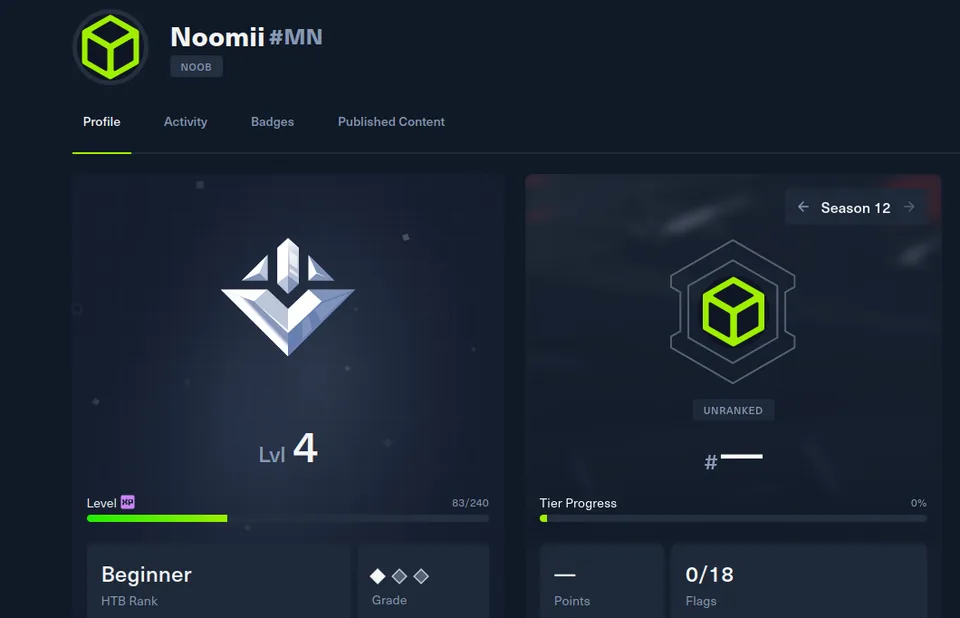
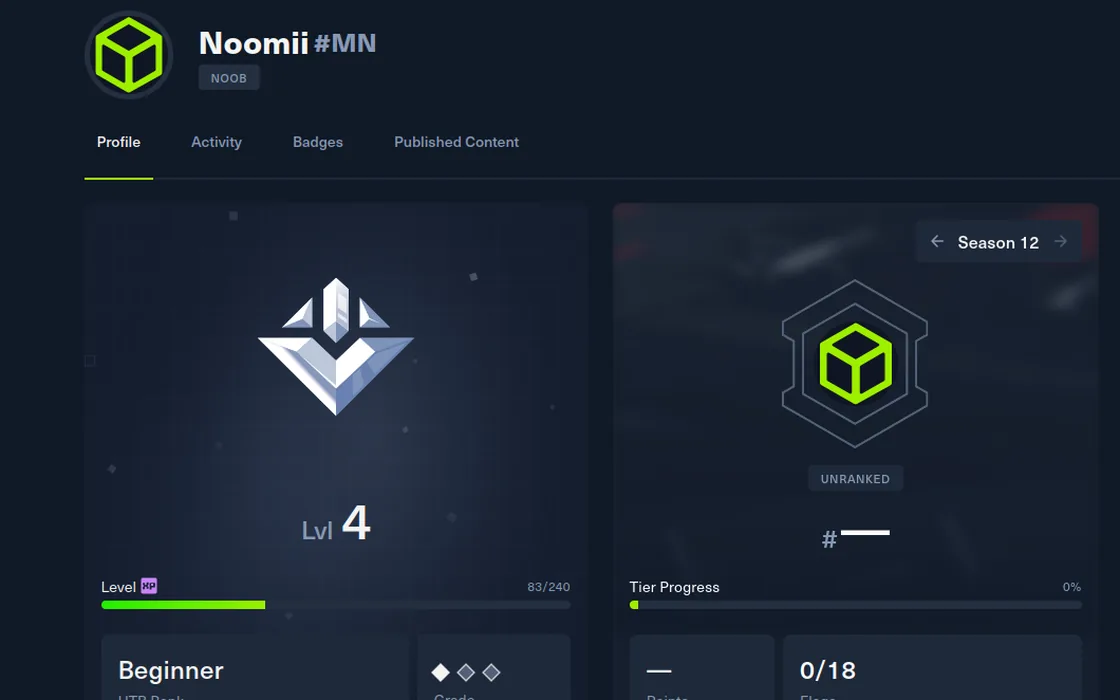
Project thumbnails: remove blue gradient, show screenshots full-bleed
- Thumbnail background is now plain (no blue/cyan radial gradient)
- Screenshots fill the entire 16:10 preview area, edge to edge
- Screenshots re-exported at exactly 16:10 so nothing is cropped
- Profile Art Engine heatmap enlarged to fill its preview
- Card text area unchanged

Claude-Session: https://claude.ai/code/session_012tD6csFcU8TxUVA9Q5snEe

diff --git a/app/components/globals.css b/app/components/globals.css
@@ -1850,7 +1850,7 @@ a.aboutv-github {
 }
 .project-thumb {
   position: relative;
-  height: 200px;
+  aspect-ratio: 16 / 10;
   display: grid;
   place-items: center;
   overflow: hidden;
@@ -1858,44 +1858,37 @@ a.aboutv-github {
 .project-thumb .thumb-bg {
   position: absolute;
   inset: 0;
-  background:
-    radial-gradient(420px 240px at 20% 0%, color-mix(in srgb, var(--cyan) 16%, transparent), transparent 60%),
-    radial-gradient(420px 260px at 90% 100%, color-mix(in srgb, var(--blue) 14%, transparent), transparent 60%),
-    var(--thumb-base);
+  background: var(--surface-2);
   transition: transform 0.6s ease;
 }
 .project-card:hover .thumb-bg {
   transform: scale(1.06);
 }
-/* Screenshot thumbnails: a window peeking up from the bottom of the card */
+/* Cards without a screenshot: enlarge the glyph to fill the preview */
+.project-thumb > svg {
+  position: relative;
+  width: 62%;
+  height: auto;
+}
+/* Screenshot thumbnails: the image fills the whole preview area */
 .thumb-shot {
   position: absolute;
-  left: 9%;
-  right: 9%;
-  top: 26px;
-  bottom: 0;
+  inset: 0;
   overflow: hidden;
-  border-radius: 10px 10px 0 0;
-  border: 1px solid var(--border);
-  border-bottom: none;
-  background: var(--surface-2);
-  box-shadow: 0 -2px 30px color-mix(in srgb, var(--text) 14%, transparent);
-  transition: transform 0.45s cubic-bezier(0.22, 1, 0.36, 1), box-shadow 0.45s ease;
 }
 .thumb-shot img {
   display: block;
   width: 100%;
-  height: auto;
+  height: 100%;
+  object-fit: cover;
+  object-position: top center;
+  transition: transform 0.6s cubic-bezier(0.22, 1, 0.36, 1);
 }
-.project-card:hover .thumb-shot {
-  transform: translateY(-8px);
-  box-shadow: 0 -6px 40px color-mix(in srgb, var(--text) 20%, transparent);
+.project-card:hover .thumb-shot img {
+  transform: scale(1.03);
 }
 @media (prefers-reduced-motion: reduce) {
-  .thumb-shot, .project-card:hover .thumb-shot { transition: none; transform: none; }
-}
-@media (max-width: 640px) {
-  .thumb-shot { left: 6%; right: 6%; top: 18px; }
+  .thumb-shot img, .project-card:hover .thumb-shot img { transition: none; transform: none; }
 }
 .thumb-glyph {
   position: relative;

diff --git a/portfolio/app/components/globals.css b/portfolio/app/components/globals.css
@@ -1850,7 +1850,7 @@ a.aboutv-github {
 }
 .project-thumb {
   position: relative;
-  height: 200px;
+  aspect-ratio: 16 / 10;
   display: grid;
   place-items: center;
   overflow: hidden;
@@ -1858,44 +1858,37 @@ a.aboutv-github {
 .project-thumb .thumb-bg {
   position: absolute;
   inset: 0;
-  background:
-    radial-gradient(420px 240px at 20% 0%, color-mix(in srgb, var(--cyan) 16%, transparent), transparent 60%),
-    radial-gradient(420px 260px at 90% 100%, color-mix(in srgb, var(--blue) 14%, transparent), transparent 60%),
-    var(--thumb-base);
+  background: var(--surface-2);
   transition: transform 0.6s ease;
 }
 .project-card:hover .thumb-bg {
   transform: scale(1.06);
 }
-/* Screenshot thumbnails: a window peeking up from the bottom of the card */
+/* Cards without a screenshot: enlarge the glyph to fill the preview */
+.project-thumb > svg {
+  position: relative;
+  width: 62%;
+  height: auto;
+}
+/* Screenshot thumbnails: the image fills the whole preview area */
 .thumb-shot {
   position: absolute;
-  left: 9%;
-  right: 9%;
-  top: 26px;
-  bottom: 0;
+  inset: 0;
   overflow: hidden;
-  border-radius: 10px 10px 0 0;
-  border: 1px solid var(--border);
-  border-bottom: none;
-  background: var(--surface-2);
-  box-shadow: 0 -2px 30px color-mix(in srgb, var(--text) 14%, transparent);
-  transition: transform 0.45s cubic-bezier(0.22, 1, 0.36, 1), box-shadow 0.45s ease;
 }
 .thumb-shot img {
   display: block;
   width: 100%;
-  height: auto;
+  height: 100%;
+  object-fit: cover;
+  object-position: top center;
+  transition: transform 0.6s cubic-bezier(0.22, 1, 0.36, 1);
 }
-.project-card:hover .thumb-shot {
-  transform: translateY(-8px);
-  box-shadow: 0 -6px 40px color-mix(in srgb, var(--text) 20%, transparent);
+.project-card:hover .thumb-shot img {
+  transform: scale(1.03);
 }
 @media (prefers-reduced-motion: reduce) {
-  .thumb-shot, .project-card:hover .thumb-shot { transition: none; transform: none; }
-}
-@media (max-width: 640px) {
-  .thumb-shot { left: 6%; right: 6%; top: 18px; }
+  .thumb-shot img, .project-card:hover .thumb-shot img { transition: none; transform: none; }
 }
 .thumb-glyph {
   position: relative;

diff --git a/app/components/WorkSection.tsx b/app/components/WorkSection.tsx
@@ -164,7 +164,7 @@ function ProjectsView() {
             <div className="thumb-bg" />
             {p.image ? (
               <div className="thumb-shot">
-                <img src={p.image} alt={p.imageAlt ?? p.title} width={960} height={620} loading="lazy" decoding="async" />
+                <img src={p.image} alt={p.imageAlt ?? p.title} width={1120} height={700} loading="lazy" decoding="async" />
               </div>
             ) : (
               <Thumb kind={p.thumb} />

diff --git a/portfolio/app/components/WorkSection.tsx b/portfolio/app/components/WorkSection.tsx
@@ -164,7 +164,7 @@ function ProjectsView() {
             <div className="thumb-bg" />
             {p.image ? (
               <div className="thumb-shot">
-                <img src={p.image} alt={p.imageAlt ?? p.title} width={960} height={620} loading="lazy" decoding="async" />
+                <img src={p.image} alt={p.imageAlt ?? p.title} width={1120} height={700} loading="lazy" decoding="async" />
               </div>
             ) : (
               <Thumb kind={p.thumb} />
